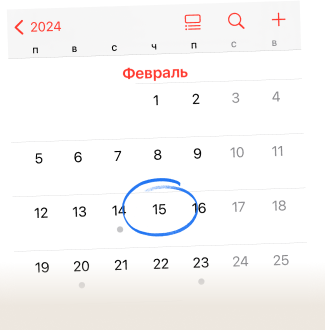
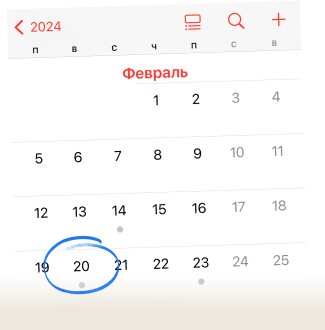
Update changes

diff --git a/index.html b/index.html
@@ -7,12 +7,33 @@
   <title>Как стать дизайнером продукта</title>
   <meta name="viewport" content="width=device-width, initial-scale=1.0" />
   <meta name="description"
-    content="Продуктовый дизайн. C нуля и зарабатывать 145 000 ₽/мес. Надёжные работодатели и крутые условия. IT-профессия в которой не нужно программировать. Пришлём все исходники после эфира. Закинем большой пак полезностей для лёгкого старта. Бесплатная консультация и траектория развития.">
+    content="Продуктовый дизайн. C нуля и зарабатывать 145 000 ₽/мес. Надёжные работодатели и крутые условия. IT-профессия, в которой не нужно программировать. Пришлём все исходники после эфира. Закинем большой пак полезностей для лёгкого старта. Бесплатная консультация и траектория развития.">
 </head>
 
 <body>
   <div id="root"></div>
   <script type="module" src="/src/main.tsx"></script>
+  <!-- Yandex.Metrika counter -->
+  <script type="text/javascript">
+    (function (m, e, t, r, i, k, a) {
+      m[i] = m[i] || function () { (m[i].a = m[i].a || []).push(arguments) };
+      m[i].l = 1 * new Date();
+      for (var j = 0; j < document.scripts.length; j++) { if (document.scripts[j].src === r) { return; } }
+      k = e.createElement(t), a = e.getElementsByTagName(t)[0], k.async = 1, k.src = r, a.parentNode.insertBefore(k, a)
+    })
+      (window, document, "script", "https://mc.yandex.ru/metrika/tag.js", "ym");
+
+    ym(96450844, "init", {
+      clickmap: true,
+      trackLinks: true,
+      accurateTrackBounce: true,
+      webvisor: true
+    });
+  </script>
+  <noscript>
+    <div><img src="https://mc.yandex.ru/watch/96450844" style="position:absolute; left:-9999px;" alt="" /></div>
+  </noscript>
+  <!-- /Yandex.Metrika counter -->
 </body>
 
 </html>

diff --git a/src/components/EventAd.tsx b/src/components/EventAd.tsx
@@ -1,6 +1,6 @@
 import React, { useEffect, useState } from 'react';
 import { ReactComponent as TelegramIcon } from '../assets/icons/tg-icon.svg';
-import calendarImage from '../assets/images/calendar-image.webp';
+import calendarImage from '../assets/images/calendar-image.png';
 import calendarMobileImage from '../assets/images/calendar-mobile.png';
 
 const EventAd: React.FC = () => {
@@ -26,7 +26,7 @@ const EventAd: React.FC = () => {
                 <img
                     src={calendarImage}
                     alt="Calendar desktop image"
-                    className="max-md:hidden absolute top-0 left-1/2 transform -translate-x-1/2 -translate-y-[8rem] w-full h-auto object-contain z-10 custom-calendar-desktop"
+                    className="max-md:hidden absolute top-0 left-1/2 transform -translate-x-1/2 -translate-y-[15rem] w-full h-auto object-contain z-10 custom-calendar-desktop"
                 />
 
                 <img
@@ -38,11 +38,11 @@ const EventAd: React.FC = () => {
 
             <div className='relative flex flex-col w-full z-20 text-center'>
                 <div className="max-md:hidden text-center mt-4 mb-4">
-                    <h1 className="font-[700] md:text-[150px] md:leading-[124px] -tracking-[0.04em]">15 февраля <span className="text-blue-600">бесплатно</span></h1>
+                    <h1 className="font-[700] md:text-[150px] md:leading-[124px] -tracking-[0.04em]">20 февраля <span className="text-blue-600">бесплатно</span></h1>
                 </div>
 
                 <div className="md:hidden flex justify-center text-center mt-0 mb-4">
-                    <h1 className="font-[700] text-[70px] leading-[56px] -tracking-[0.07em]">15 фев <span className="text-blue-600">Бесплатно</span></h1>
+                    <h1 className="font-[700] text-[70px] leading-[56px] -tracking-[0.07em]">20 фев <span className="text-blue-600">Бесплатно</span></h1>
                 </div>
 
                 <p className="font-[500] text-[16px] md:text-[32px] leading-[16px] md:leading-[32px] -tracking-[0.04em] text-center max-w-[620px] text-black/60 mx-auto">

diff --git a/src/components/Header/Header.tsx b/src/components/Header/Header.tsx
@@ -21,7 +21,7 @@ const Header: FC<HeaderProps> = ({ isScrolled }) => {
 
         {isScrolled && (
           <div className="flex items-center">
-            <p className='font-[400] text-[14px] leading-[16.9px] mr-4'>15 февраля в 19:00</p>
+            <p className='font-[400] text-[14px] leading-[16.9px] mr-4'>20 февраля в 19:00</p>
             <button
               className="bg-gradient-to-r from-[#4164FD] to-[#1C3ED2] font-[400] text-[14px] leading-[16.8px] px-[12px] py-[5px] rounded-full transition duration-300 ease-in-out text-white"
               onClick={() => scrollToElement('event')}
@@ -33,8 +33,10 @@ const Header: FC<HeaderProps> = ({ isScrolled }) => {
       </header>
 
       <div className='absolute top-0 right-8'>
-        <img src={Flag} alt="flag object" className='w-[90px] h-[45px] md:w-full md:h-full' />
-        <p className='absolute top-0 md:top-1.5 text-center p-[6px] md:p-3 font-[500] text-[8px] md:text-[14px] leading-[9px] md:leading-[15.82px] -tracking-[2%] grad bg-gradient-to-r from-[#49B4BC] via-[#96C794] via-[#BBD080] to-[#57C552] inline-block text-transparent bg-clip-text z-20'>Проект студии MAX. Топ 10 студий РФ (Tagline 2023)</p>
+        <a href="https://tagline.ru/design-studios-rating/" target='_blank'>
+          <img src={Flag} alt="flag object" className='w-[90px] h-[45px] md:w-full md:h-full' />
+          <p className='absolute top-0 md:top-1.5 text-center p-[6px] md:p-3 font-[500] text-[8px] md:text-[14px] leading-[9px] md:leading-[15.82px] -tracking-[2%] grad bg-gradient-to-r from-[#49B4BC] via-[#96C794] via-[#BBD080] to-[#57C552] inline-block text-transparent bg-clip-text z-20'>Проект студии MAX. Топ 10 студий РФ (Tagline 2023)</p>
+        </a>
       </div>
     </>
   );

diff --git a/src/components/WhyChooseDesigning.tsx b/src/components/WhyChooseDesigning.tsx
@@ -33,11 +33,11 @@ const WhyChooseDesigningList = () => {
 
             <div className="flex flex-row md:flex-col items-start mt-10 md:mt-4 gap-x-3">
                 <div className='max-w-[100px] md:max-w-[200px] md:w-full'>
-                    <img src={memoji3} alt={'IT-профессия в которой не нужно программировать'} className={`max-md:hidden md:w-[200px] md:max-h-[200px] object-contain`} />
+                    <img src={memoji3} alt={'IT-профессия, в которой не нужно программировать'} className={`max-md:hidden md:w-[200px] md:max-h-[200px] object-contain`} />
                     <img src={memoji3Mobile} alt={'Средняя зп со старта — 145 000 ₽/мес'} className={`md:hidden md:w-[200px] md:max-h-[200px] object-contain`} />
                 </div>
                 <div className="w-full">
-                    <p className={`font-[700] text-[24px] md:text-[32px] leading-[25.2px] md:leading-[32px] -tracking-[.04em] max-w-[250px] md:max-w-[300px] text-black`}>{'IT-профессия в которой не нужно программировать'}</p>
+                    <p className={`font-[700] text-[24px] md:text-[32px] leading-[25.2px] md:leading-[32px] -tracking-[.04em] max-w-[250px] md:max-w-[300px] text-black`}>{'IT-профессия, в которой не нужно программировать'}</p>
                     <p className="font-[400] text-[16px] leading-[17.6px] text-[#9F9F9F] mt-[8px] md:max-w-[250px]">Это креативная IT профессия которой может обучится каждый</p>
                 </div>
             </div>

diff --git a/src/components/ProductDesignerAd.tsx b/src/components/ProductDesignerAd.tsx
@@ -12,7 +12,7 @@ const ProductDesignerAd: React.FC = () => {
     return (
         <div className="rounded-lg text-white text-center mt-[1rem] mb-[120px] md:mb-0">
             <div className="font-[500] text-[20px] md:text-[35px] leading-[22px] md:leading-[35px] -tracking-[0.04em]">
-                <p>15 февраля в 19:00</p>
+                <p>20 февраля в 19:00</p>
                 <p className='opacity-70'>Бесплатный отрытый урок</p>
             </div>
             <h1 className="text-[60px] md:text-[145px] font-[700] leading-[48px] md:leading-[116px] -tracking-[0.06em] mt-[48px] mb-[26px]">
